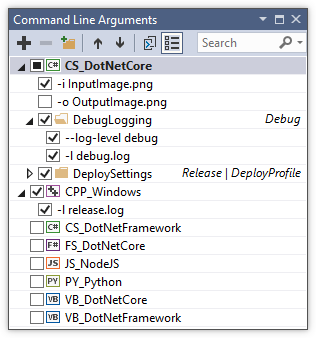
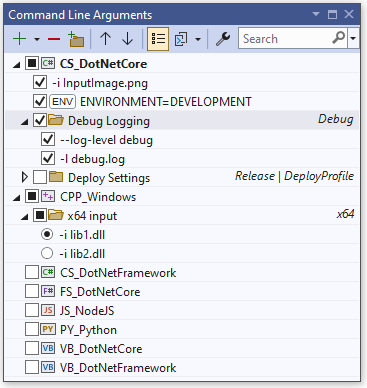
Updated marketplace overview

diff --git a/MarketplaceOverview.md b/MarketplaceOverview.md
@@ -6,9 +6,9 @@ For VS 2017 go to [Smart Command Line Arguments VS2017](https://marketplace.visu
 
 For VS 2015 the last supported version is [v2.3.2](https://github.com/MBulli/SmartCommandlineArgs/releases/download/v2.3.2/SmartCmdArgs-v2.3.2.vsix)
 
-A Visual Studio Extension which aims to provide a better UI to manage your command line arguments.
+A Visual Studio Extension which aims to provide a better UI to manage your command line arguments and environment variables.
 
-![Main Window](https://raw.githubusercontent.com/MBulli/SmartCommandlineArgs/master/Doc/Images/MainWindow.png "Command Line Arguments window, showning all projects")
+![Main Window](vsix_preview_image.png "Command Line Arguments window, showning all projects")
 
 Visual Studio 2017, 2019 and 2022 and the following project types are supported:
 
@@ -33,14 +33,26 @@ View → Other Windows → Commandline Arguments
 
 If the window is open or minimized the commandline arguments should not be edited via the project properties.  
 Changes which are made in the window are applied to all project configurations (Release/Debug etc.) of the current startup project.
+ 
+### Interface (Toolwindow Buttons)
+- **Add**: Add new line (Command Line Argument or Environment Variable)
+- **Remove**: Remove selected lines
+- **Add group**: Add new group
+- **Up/Down**: Move selected lines
+- **Copy Cmd**: Copy command line to clipboard. (Command Line Arguments or Environment Variables for Powershell or the Command Prompt)
+- **Show all projects**: Toggle to also display non-startup projects
+- **Settings**: Open the [Settings](#user-content-settings) dialog
 
 ### Settings
 If the checkboxes are filled with a square the default value is used.
 The default value for these settings can be configured under `Tools → Options → Smart Commandline Arguments → Settings Defaults`.
 
 - **Save Settings to JSON**: If true then the these settings are stored in a JSON file next to the solution file.
-- **Enable version control support**: If enabled the extension will store the command line arguments into an json file at the same loctation as the related project file. That way the command line arguments might be version controlled by a VCS. If disabled the extension will store everything inside the solutions `.suo-file` which is usally ignored by version control. The default value for this setting is True.
+- **Manage Command Line Arguments**: If enabled the arguments are set automatically when a project is started/debugged.
+- **Manage Environment Variables**: If enabled the environment variables are set automatically when a project is started/debugged.
+- **Enable version control support**: If enabled the extension will store the command line arguments into an json file at the same loctation as the related project file. That way the command line arguments might be version controlled by a VCS. If disabled the extension will store everything inside the solutions `.suo-file` which is usally ignored by version control.
 - **Use Solution Directory**: If enabled all arguments of every project will be stored in a single file next to the *.sln file. (Only if version control support is enabled)
+- **Use Custom JSON Path**: If enabled the *.args.json file is saved at a custom location. Relative paths are based on the solution directory. (Only if 'Use Solution Directory' is enabled)
 - **Enable Macro evaluation**: If enabled Macros like '$(ProjectDir)' will be evaluated and replaced by the corresponding string.
 
 ### Hotkeys
@@ -61,18 +73,21 @@ There are also three different types of data which can be pasted:
 
 ### Context Menu
 
-![Context Menu](https://raw.githubusercontent.com/MBulli/SmartCommandlineArgs/master/Doc/Images/ContextMenuGroup.png "Context Menu with a single group selected")
+![Group Context Menu](https://raw.githubusercontent.com/MBulli/SmartCommandlineArgs/master/Doc/Images/ContextMenuGroup.png "Context Menu with a single group selected")
+![Item Context Menu](https://raw.githubusercontent.com/MBulli/SmartCommandlineArgs/master/Doc/Images/ContextMenuItem.png "Context Menu with a single item selected")
 
 - **Cut** / **Copy** / **Delete**: Cuts/Copies/Deletes the selected items.
-- **Paste**: Pastes the previously copied/cut items, text, or files
-- **Space Delimiter** (only available while ONE group or project is selected): If this is checked then each argument in the group is seperated by a space when passed to the application.
-- **Exclusive Mode** (only available while ONE group or project is selected): If this is checked then the group switches to a radio button mode where only one argument can be checked at any given time.
+- **Paste**: Pastes the previously copied/cut items, text, or files (see [Paste](#user-content-paste)).
+- **CLA Delimiter** (only available while ONE group or project is selected): Options to set the string that each argument in the group is separated by. It can be set to a single space which is the default, none or something custom. If custom is selected you can also set a pre- and postfix that is prepend/append if the group is not empty.
+- **Exclusive Mode** (only available while ONE group or project is selected): If this is checked then the group switches to a radio button mode where only one item can be checked at any given time.
 - **New Group from Selection**: Creates a new Group and moves the selected items into it.
+- **Split Argument** (only available while ONE argument is selected): Splits the argument with the typical cmd line parsing rules (e.g. `-o "C:\Test Folder\Output.png"` is split into two arguments `-o` and `"C:\Test Folder\Output.png"`).
+- **Open/Reveal File/Folder** (only available while ONE item with a valid path is selected): If there is a file of folder name in the item then it can be opend or revealed with this option. (Base path for relative paths can be configured to project- or target path in the options)
+- **Project Configuration** / **Launch Profile** / **Project Platform** (only available while ONE group is selected): Shows a sub menu to select a Project Configuration/Launch Profile/Project Platform. If this is set for a group, it is only evaluated if the right Project Configuration/Launch Profile/Project Platform is active.
+- **Item Type** (only available while ONE item is selected): Switch the type of the item from command line argument to environment variable or back.
+- **Set as single Startup Project** (only available while ONE project is selected): Sets the selected project as the startup project.
 - **Reset to default checked**: Resets every selected arguemnt to the checked state given by the _Default Dhecked_ option.
 - **Default Checked**: If this is checked then the argument sould be chekd by default e.g. if someone opens up the project for the first time.
-- **Split Argument** (only available while ONE argument is selected): Splits the argument with the typical cmd line parsing rules (e.g. `-o "C:\Test Folder\Output.png"` is split into two arguments `-o` and `"C:\Test Folder\Output.png"`).
-- **Project Configuration** / **Launch Profile** / **Project Platform** (only available while ONE group is selected): Shows a sub menu to select a Project Configuration/Launch Profile/Project Platform. If this is set for a group, it is only evaluated if the right Project Configuration/Launch Profile/Project Platform is active.
-- **Set as single Startup Project** (only available while ONE project is selected): Sets the selected project as the startup project.
 
 
 ### Donation
